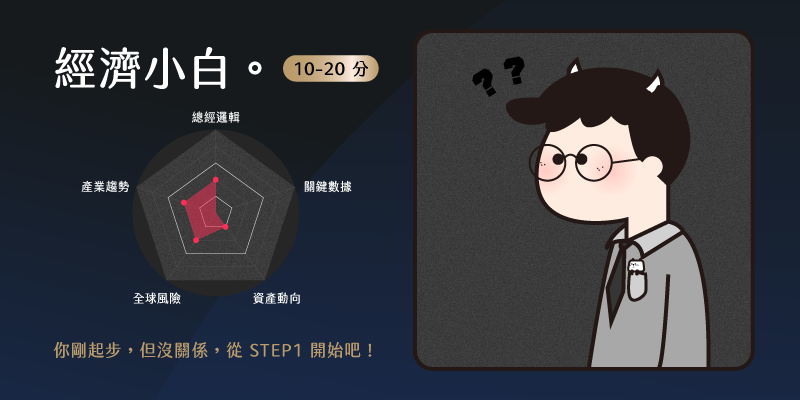
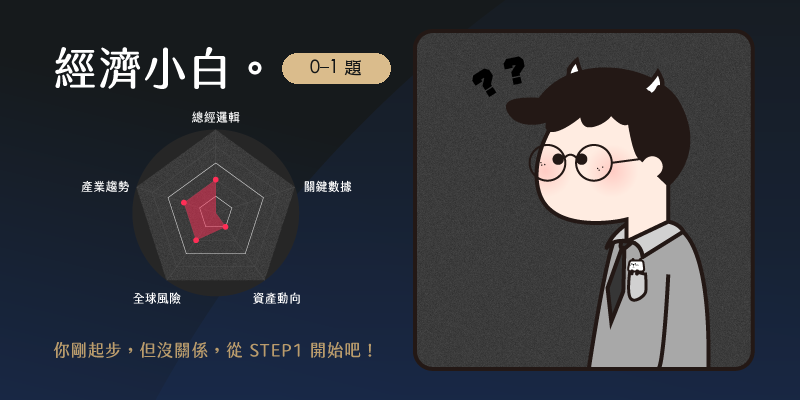
Reduce quiz to six progressive questions

Changed region(s): [[0.3438, 0.12, 0.5, 0.21]]

diff --git a/script.js b/script.js
@@ -3,6 +3,20 @@ const SOURCE_JACKSON = "https://www.macromicro.me/blog/mm-weekly-premarket-updat
 
 const questions = [
   {
+    topic: "台灣景氣",
+    question: "台灣 7 月景氣燈號維持高檔，且內外需求同步擴張。下列哪項最符合這個訊號？",
+    options: [
+      "外需仍強，但內需已明顯轉弱",
+      "景氣動能仍具韌性，內外需求共同支撐",
+      "景氣主要由庫存回補支撐，終端需求尚未改善",
+      "燈號高檔主要反映股市，與實體經濟關聯有限"
+    ],
+    correct: 1,
+    explanation: "7 月景氣燈號持穩 41 分，內外需求同步擴張，顯示景氣動能仍具韌性，而非只靠單一部門支撐。",
+    source: SOURCE_JACKSON,
+    sourceLabel: "MacroMicro 8/30 一週盤前"
+  },
+  {
     topic: "美國就業",
     question: "美國 8 月非農就業大幅優於預期，但薪資增速放緩。這組數據最合理的解讀是？",
     options: [
@@ -13,20 +27,6 @@ const questions = [
     ],
     correct: 1,
     explanation: "8 月非農月增 16.2 萬人，高於市場預期；平均每小時薪資年增率則由 3.2% 放緩至 3.1%，呈現就業具韌性、薪資壓力未同步升高的組合。",
-    source: SOURCE_WEEKLY,
-    sourceLabel: "MacroMicro 9/6 一週盤前"
-  },
-  {
-    topic: "市場反應",
-    question: "強勁的美國非農就業數據公布後，美國公債殖利率與美元同步走高，主要反映市場如何調整預期？",
-    options: [
-      "提高聯準會近期升息的可能性",
-      "提高聯準會近期大幅降息的可能性",
-      "認為利率路徑不再需要參考通膨數據",
-      "認為強勁就業只會影響企業獲利，不影響政策"
-    ],
-    correct: 0,
-    explanation: "強勁就業降低了立即寬鬆的必要性，市場因而提高聯準會近期升息的定價，美債殖利率與美元同步走高。",
     source: SOURCE_WEEKLY,
     sourceLabel: "MacroMicro 9/6 一週盤前"
   },
@@ -45,20 +45,6 @@ const questions = [
     sourceLabel: "MacroMicro 9/6 一週盤前"
   },
   {
-    topic: "黃金市場",
-    question: "聯準會理事 Christopher Waller（華勒）的偏鴿談話一度帶動黃金反彈。最合理的傳導邏輯是？",
-    options: [
-      "談話態度降低市場升息預期，降低持有黃金的機會成本",
-      "偏鴿訊號代表黃金供給即將中斷",
-      "聯準會將直接購買黃金",
-      "偏鴿訊號必然使所有商品價格上漲"
-    ],
-    correct: 0,
-    explanation: "黃金不孳息；當偏鴿訊號降低市場對利率的預期，持有黃金的相對機會成本下降，通常有利金價。",
-    source: SOURCE_WEEKLY,
-    sourceLabel: "MacroMicro 9/6 一週盤前"
-  },
-  {
     topic: "能源市場",
     question: "西德州中級原油（WTI）價格再度站上 90 美元，主要受到中東衝突不確定性推動。這反映油價增加了哪種溢價？",
     options: [
@@ -73,60 +59,18 @@ const questions = [
     sourceLabel: "MacroMicro 9/6 一週盤前"
   },
   {
-    topic: "美國通膨",
-    question: "美國核心個人消費支出物價指數（核心 PCE）月增率回升，主要受到金融服務與保險價格影響。為何不宜立刻認定通膨全面惡化？",
+    topic: "黃金市場",
+    question: "聯準會理事 Christopher Waller（華勒）的偏鴿談話一度帶動黃金反彈。最合理的傳導邏輯是？",
     options: [
-      "核心 PCE 不包含任何服務價格，因此不具參考性",
-      "漲幅集中在與金融市場熱度相關的項目，且後續可能被調整",
-      "只要非農強勁，聯準會就不會參考核心 PCE",
-      "核心 PCE 年增率已經低於聯準會長期目標"
-    ],
-    correct: 1,
-    explanation: "本次核心月增回升主要由金融服務與保險項目帶動，該項目與市場熱絡程度有關，且後續預計調整，因此需搭配其他物價細項確認趨勢。",
-    source: SOURCE_JACKSON,
-    sourceLabel: "MacroMicro 8/30 一週盤前"
-  },
-  {
-    topic: "台灣景氣",
-    question: "台灣 7 月景氣燈號維持高檔，且內外需求同步擴張。下列哪項最符合這個訊號？",
-    options: [
-      "外需仍強，但內需已明顯轉弱",
-      "景氣動能仍具韌性，內外需求共同支撐",
-      "景氣主要由庫存回補支撐，終端需求尚未改善",
-      "燈號高檔主要反映股市，與實體經濟關聯有限"
-    ],
-    correct: 1,
-    explanation: "7 月景氣燈號持穩 41 分，內外需求同步擴張，顯示景氣動能仍具韌性，而非只靠單一部門支撐。",
-    source: SOURCE_JACKSON,
-    sourceLabel: "MacroMicro 8/30 一週盤前"
-  },
-  {
-    topic: "人工智慧與半導體",
-    question: "輝達（NVIDIA）財測優於預期，新一代人工智慧（AI）運算平台 Vera Rubin 也進入量產。這對半導體產業最直接的意義是？",
-    options: [
-      "AI 基礎建設需求仍在支撐先進晶片與相關供應鏈",
-      "半導體成長動能已由 AI 全面轉向消費電子",
-      "所有半導體次產業已進入相同幅度的擴張週期",
-      "AI 投資正在轉向純軟體，硬體需求的重要性下降"
+      "談話態度降低市場升息預期，降低持有黃金的機會成本",
+      "偏鴿訊號代表黃金供給即將中斷",
+      "聯準會將直接購買黃金",
+      "偏鴿訊號必然使所有商品價格上漲"
     ],
     correct: 0,
-    explanation: "財測與新平台量產顯示 AI 基礎建設需求仍在延續，直接支撐先進運算晶片與相關供應鏈；但不代表所有半導體次產業同步受惠。",
-    source: SOURCE_JACKSON,
-    sourceLabel: "MacroMicro 8/30 一週盤前"
-  },
-  {
-    topic: "亞洲匯率",
-    question: "隨著台灣與南韓升息預期增加，亞幣可能出現升值壓力。這對出口企業最可能產生什麼影響？",
-    options: [
-      "海外收入換回本國貨幣時，可能承受匯兌壓力",
-      "以美元計價的海外收入換回本幣後一定增加",
-      "因出口多以美元計價，企業不需要管理匯率風險",
-      "升值會同時提高所有進口成本與出口競爭力"
-    ],
-    correct: 0,
-    explanation: "本幣升值會使相同的美元收入換回較少本國貨幣，可能形成匯兌壓力；進口成本下降則可能提供部分抵銷。",
-    source: SOURCE_JACKSON,
-    sourceLabel: "MacroMicro 8/30 一週盤前"
+    explanation: "黃金不孳息；當偏鴿訊號降低市場對利率的預期，持有黃金的相對機會成本下降，通常有利金價。",
+    source: SOURCE_WEEKLY,
+    sourceLabel: "MacroMicro 9/6 一週盤前"
   },
   {
     topic: "債務與成長",
@@ -147,39 +91,39 @@ const questions = [
 const profiles = [
   {
     min: 0,
-    max: 20,
+    max: 1,
     name: "經濟小白",
     kicker: "STEP 1 · 建立觀察習慣",
     description: "你對總經世界還在起步，但每位投資高手都曾經是新手。先抓住就業、通膨與央行三條主線，你會很快看見數據之間的關係。",
-    image: "assets/economy-newbie.png",
-    alt: "經濟小白 10 到 20 分角色圖"
+    image: "assets/economy-newbie.png?v=2",
+    alt: "經濟小白，答對 0 到 1 題角色圖"
   },
   {
-    min: 30,
-    max: 50,
+    min: 2,
+    max: 3,
     name: "總經入門",
-    kicker: "STEP 3 · 串起數據邏輯",
+    kicker: "STEP 2 · 串起數據邏輯",
     description: "你已經有底子，能辨認重要數據與市場反應。下一步試著追蹤數據的前值、預期值與公布值，建立更完整的判讀脈絡。",
-    image: "assets/macro-starter.png",
-    alt: "總經入門 30 到 50 分角色圖"
+    image: "assets/macro-starter.png?v=2",
+    alt: "總經入門，答對 2 到 3 題角色圖"
   },
   {
-    min: 60,
-    max: 80,
+    min: 4,
+    max: 5,
     name: "總經達人",
     kicker: "DATA FLUENCY · 靈活判讀",
     description: "你已能靈活運用數據進行判斷，知道單一指標不能獨立解讀。持續交叉觀察景氣、政策與資產價格，就能讓訊號更立體。",
-    image: "assets/macro-master.png",
-    alt: "總經達人 60 到 80 分角色圖"
+    image: "assets/macro-master.png?v=2",
+    alt: "總經達人，答對 4 到 5 題角色圖"
   },
   {
-    min: 90,
-    max: 100,
+    min: 6,
+    max: 6,
     name: "總經大神",
     kicker: "MACRO EXPERT · 全面掌握",
     description: "你就是總經知識的代言人！不只掌握關鍵數據，也理解它們如何牽動央行、利率與跨資產市場，總經雷達全開。",
-    image: "assets/macro-god.png",
-    alt: "總經大神 90 到 100 分角色圖"
+    image: "assets/macro-god.png?v=2",
+    alt: "總經大神，6 題全對角色圖"
   }
 ];
 
@@ -231,7 +175,7 @@ function beginQuiz() {
 function renderQuestion() {
   const item = questions[currentQuestion];
   selected = answers[currentQuestion] ?? null;
-  els.progressLabel.textContent = `QUESTION ${String(currentQuestion + 1).padStart(2, "0")} / ${questions.length}`;
+  els.progressLabel.textContent = `QUESTION ${String(currentQuestion + 1).padStart(2, "0")} / ${String(questions.length).padStart(2, "0")}`;
   els.progressBar.style.width = `${((currentQuestion + 1) / questions.length) * 100}%`;
   els.topicTag.textContent = item.topic;
   els.questionTitle.textContent = item.question;
@@ -277,10 +221,9 @@ function advance() {
 
 function showResults() {
   const correct = questions.reduce((total, item, index) => total + (answers[index] === item.correct ? 1 : 0), 0);
-  const score = correct * 10;
-  const profile = profiles.find(item => score >= item.min && score <= item.max) || profiles[0];
+  const profile = profiles.find(item => correct >= item.min && correct <= item.max) || profiles[0];
 
-  els.scoreValue.textContent = score;
+  els.scoreValue.textContent = correct;
   els.correctCount.textContent = correct;
   els.resultImage.src = profile.image;
   els.resultImage.alt = profile.alt;

diff --git a/index.html b/index.html
@@ -7,13 +7,13 @@
     <meta name="theme-color" content="#343a40" />
     <meta property="og:type" content="website" />
     <meta property="og:title" content="你的總經雷達有多靈敏？｜MacroMicro" />
-    <meta property="og:description" content="用 10 題總經時事題，測出你的總經角色。" />
+    <meta property="og:description" content="用 6 題由淺入深的總經時事題，測出你的總經角色。" />
     <meta property="og:url" content="https://macromicrocs.github.io/macro-pulse-quiz/" />
     <title>你的總經雷達有多靈敏？｜MacroMicro</title>
     <link rel="canonical" href="https://macromicrocs.github.io/macro-pulse-quiz/" />
     <link rel="icon" type="image/png" href="assets/mm-logo-mark.png" />
     <link rel="apple-touch-icon" href="assets/mm-logo-mark.png" />
-    <link rel="stylesheet" href="styles.css?v=5" />
+    <link rel="stylesheet" href="styles.css?v=6" />
   </head>
   <body>
     <header class="site-header">
@@ -29,11 +29,11 @@
           <div class="festival-tag"><span>CAREER FESTIVAL</span><strong>現場限定挑戰</strong></div>
           <p class="eyebrow"><span></span> MACRO PULSE QUIZ · 2026</p>
           <h1 id="hero-title">你的<span class="hero-accent">總經雷達</span><br /><span class="hero-question">有多靈敏？</span></h1>
-          <p class="hero-lead">從非農、通膨到債匯市場，用 10 題測出你對近期全球經濟的掌握度。</p>
+          <p class="hero-lead">從景氣、非農到跨資產傳導，用 6 題測出你對近期全球經濟的掌握度。</p>
           <div class="meta-row" aria-label="測驗資訊">
-            <span>10 題單選</span>
-            <span>約 3 分鐘</span>
-            <span>滿分 100</span>
+            <span>6 題單選</span>
+            <span>約 2 分鐘</span>
+            <span>由淺入深</span>
           </div>
           <div class="hero-reward">
             <span class="gift-symbol" aria-hidden="true"><i></i></span>
@@ -117,7 +117,7 @@
           <div class="quiz-topbar">
             <div>
               <p class="eyebrow"><span></span> MACRO PULSE QUIZ</p>
-              <p id="progress-label" class="progress-label">QUESTION 01 / 10</p>
+              <p id="progress-label" class="progress-label">QUESTION 01 / 06</p>
             </div>
             <button id="exit-btn" class="text-btn" type="button">回到首頁</button>
           </div>
@@ -143,7 +143,7 @@
               <p class="eyebrow"><span></span> YOUR MACRO PROFILE</p>
               <h1 id="result-title">測驗完成</h1>
             </div>
-            <div class="score-lockup" aria-label="測驗分數"><strong id="score-value">0</strong><span>/ 100</span></div>
+            <div class="score-lockup" aria-label="答對題數"><strong id="score-value">0</strong><span>/ 6 題</span></div>
           </div>
 
           <div class="result-grid">
@@ -201,6 +201,6 @@
     </footer>
 
     <div id="toast" class="toast" role="status" aria-live="polite">試用碼已複製</div>
-    <script src="script.js?v=4"></script>
+    <script src="script.js?v=5"></script>
   </body>
 </html>

diff --git a/styles.css b/styles.css
@@ -190,7 +190,7 @@ main { min-height: calc(100vh - 132px); }
 .text-btn { padding: 7px 0; color: var(--muted); background: transparent; cursor: pointer; border-bottom: 1px solid transparent; }
 .text-btn:hover { color: var(--ink); border-color: currentColor; }
 .progress-track { height: 3px; background: #d5d9d5; margin: 26px 0 34px; overflow: hidden; }
-.progress-track span { display: block; width: 10%; height: 100%; background: var(--mint); transition: width .45s ease; }
+.progress-track span { display: block; width: 16.6667%; height: 100%; background: var(--mint); transition: width .45s ease; }
 .question-card { min-height: 480px; padding: clamp(30px, 5vw, 58px); background: var(--white); border-radius: var(--radius); box-shadow: var(--shadow); }
 .topic-tag { display: inline-flex; padding: 7px 11px; margin-bottom: 24px; border-radius: 6px; color: #167665; background: #e3f7f1; font-size: 12px; font-weight: 800; letter-spacing: .08em; }
 .question-card h2 { margin: 0 0 34px; font-size: clamp(25px, 3.4vw, 38px); line-height: 1.45; letter-spacing: -.03em; }
@@ -330,7 +330,7 @@ footer { min-height: 58px; padding: 18px clamp(22px, 5vw, 74px); display: flex; 
   .quiz-actions .primary-btn { width: 100%; }
   .result-heading { align-items: flex-start; }
   .score-lockup strong { font-size: 68px; }
-  .score-lockup span { display: none; }
+  .score-lockup span { display: inline; margin-left: 8px; font-size: 13px; }
   .profile-copy { padding: 25px 22px 28px; }
   .profile-copy h2 { font-size: 28px; }
   .review-section { margin-top: 58px; }

diff --git a/README.md b/README.md
@@ -1,6 +1,6 @@
 # MacroMicro 總經時事力測驗
 
-一個不需要後端服務的互動式總經小測驗，包含 10 題時事題目、四種得分結果、答題解析，以及 Career Festival 活動兌換資訊。
+一個不需要後端服務的互動式總經小測驗，包含 6 題由淺入深的時事題目、四種得分結果、答題解析，以及 Career Festival 活動兌換資訊。
 
 公開網址：<https://macromicrocs.github.io/macro-pulse-quiz/>
 
